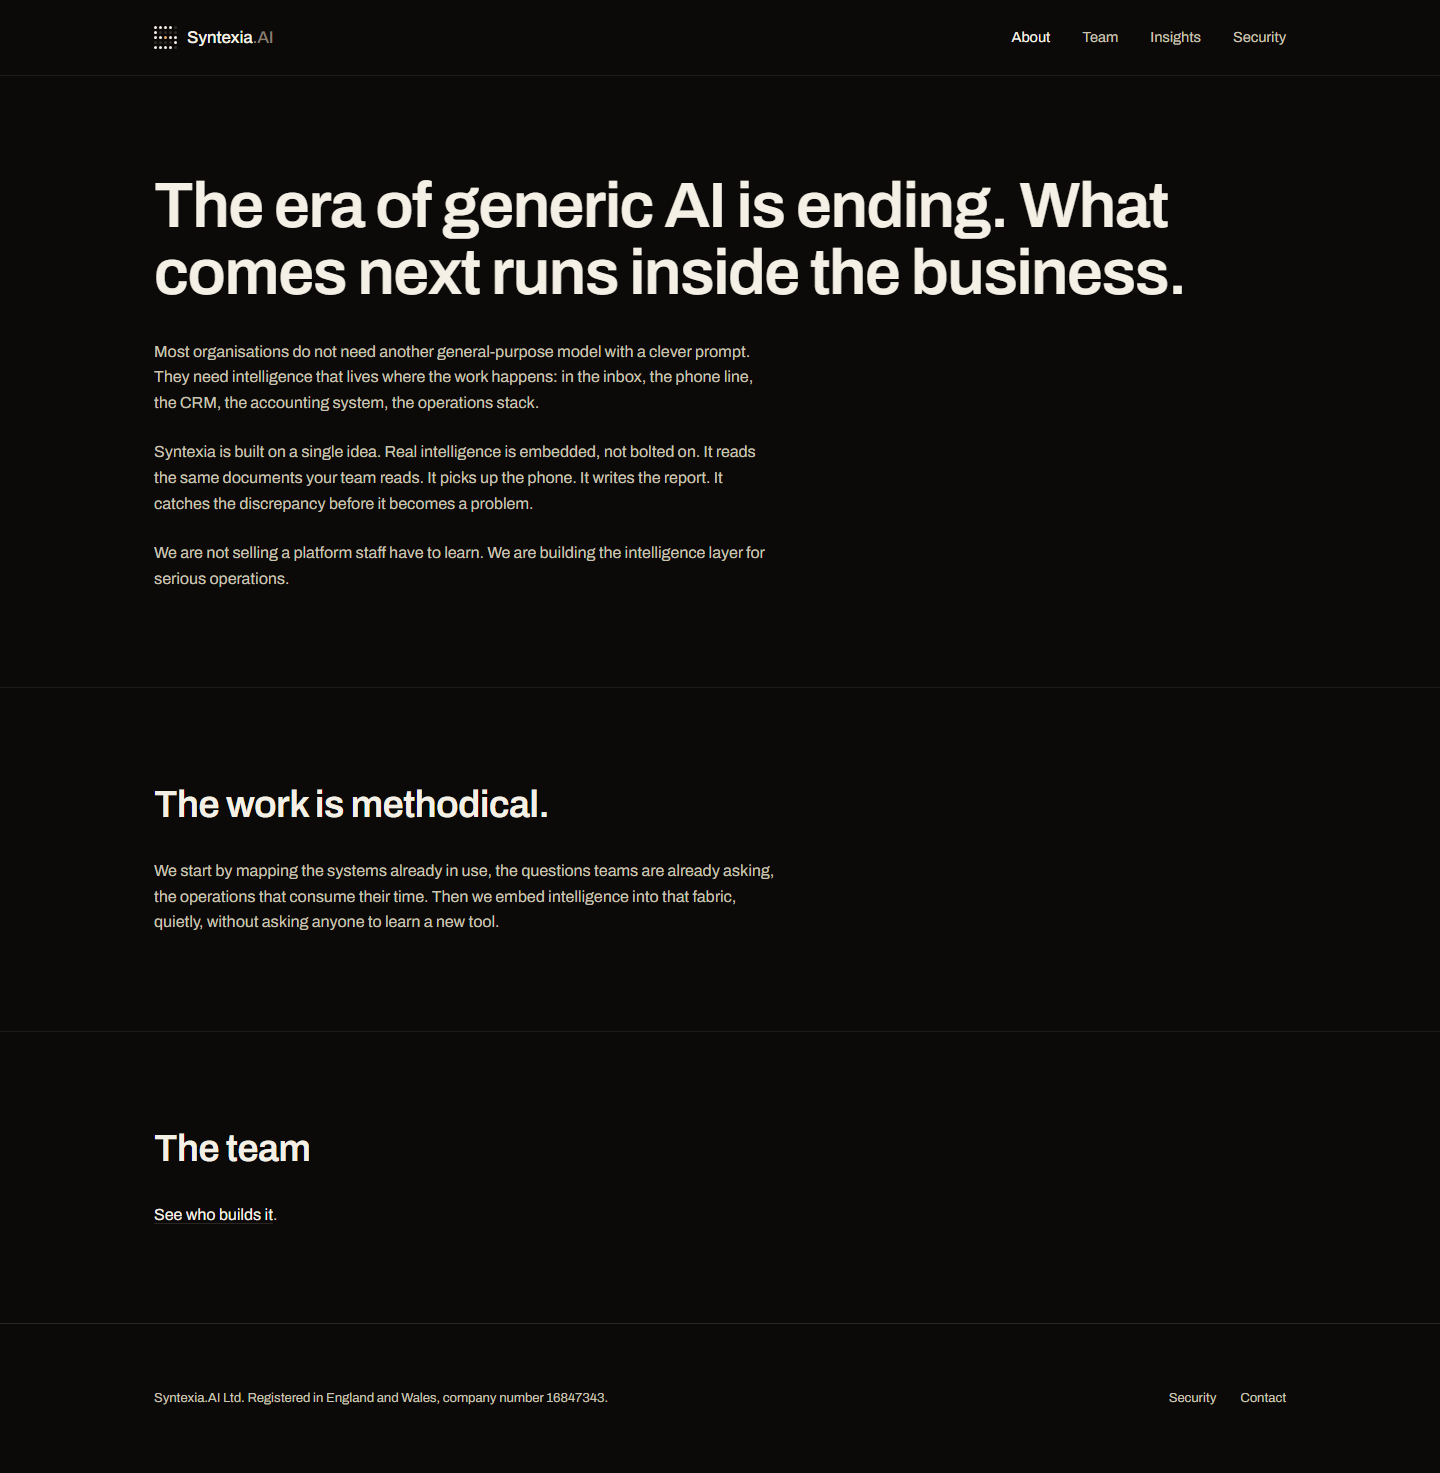
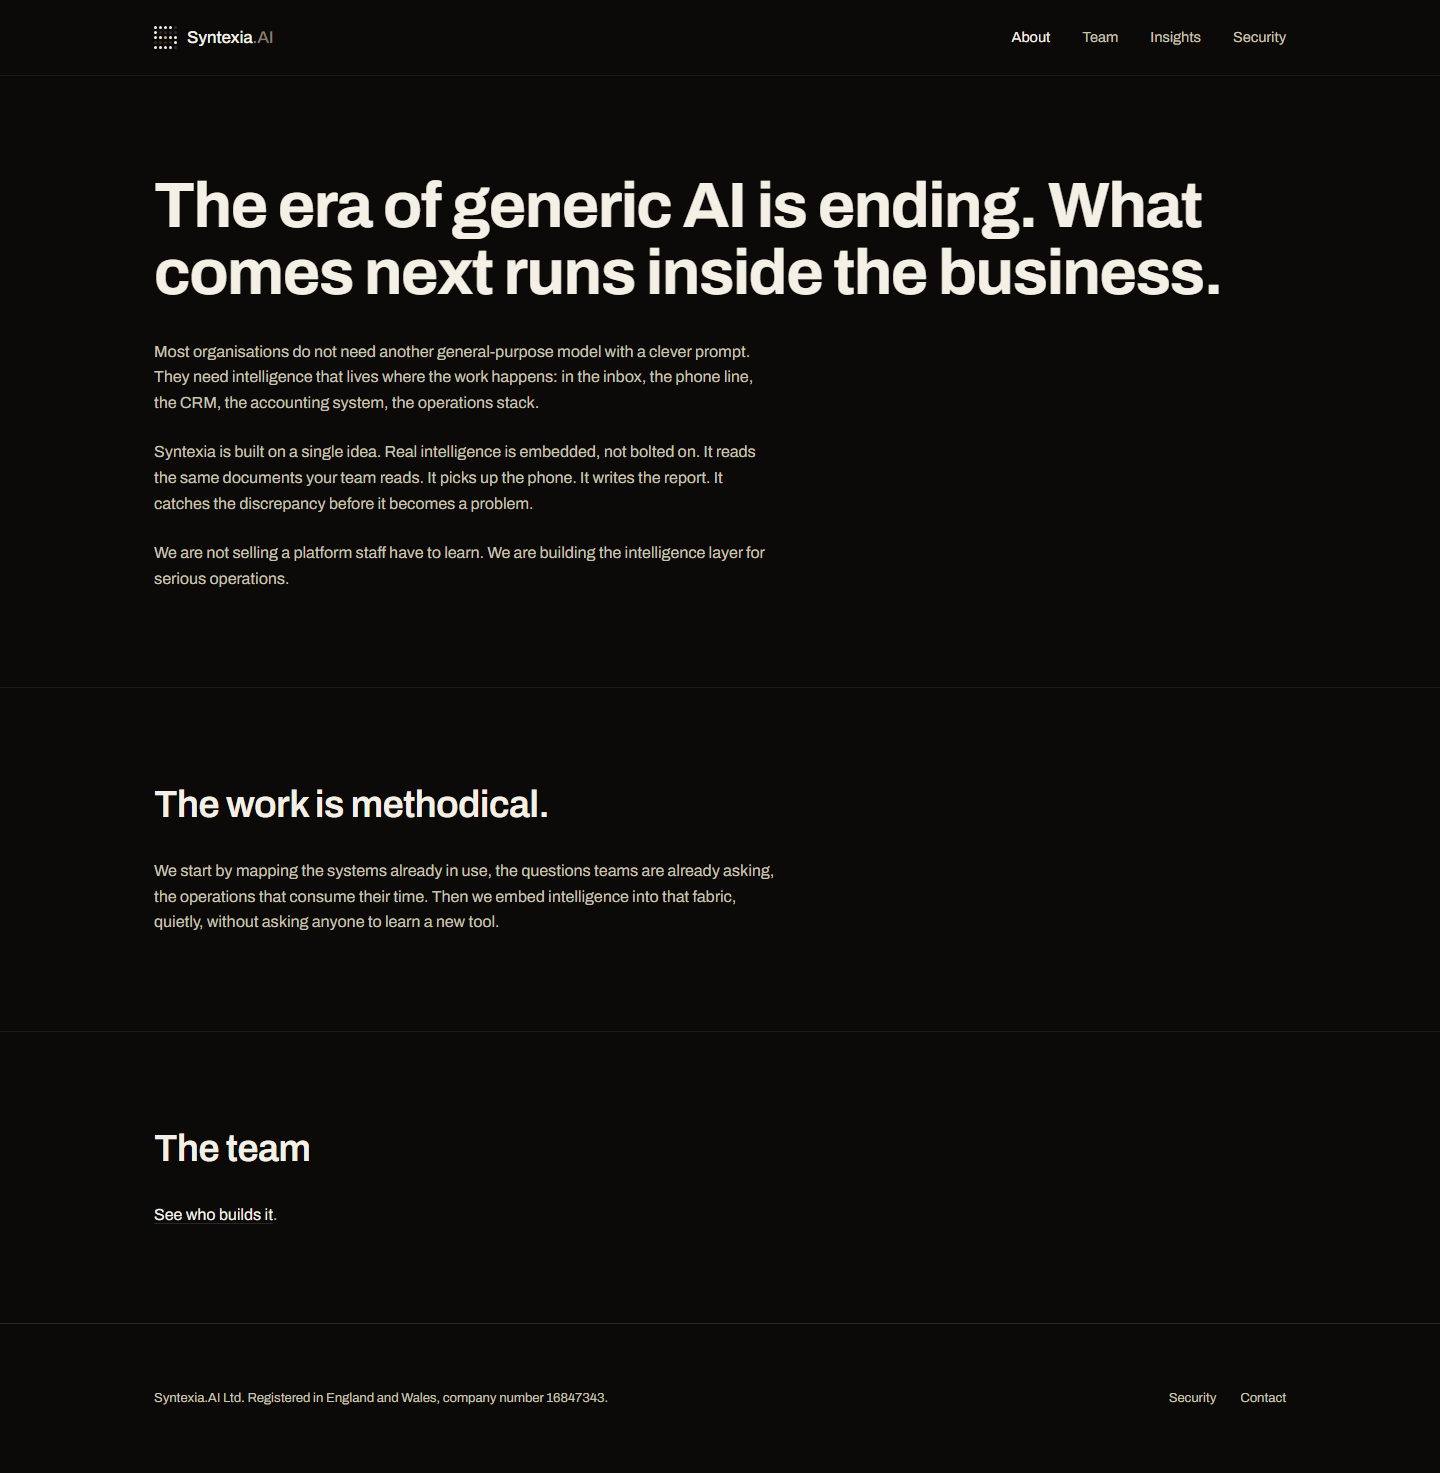
feat: committed art direction, product interface and audit flow
The site was the only one in the panel without a single image, while we have
three platforms in production. Fixed with real material, not decorative
illustrations.

Two pieces added.

AppFrame: a reconstruction of the engagement tracking screen, in Portuguese
like the real interface, company names redacted, references fictional. It is
what the whole panel does (Rossum, Trullion, Numeric, Instabase) and what we
were missing. The difference: they show decorative mockups, we reconstruct
our real screen.

AuditFlow: the flow of a Portuguese firm as it is implemented, Aceitacao,
Planeamento, Execucao, Conclusao, with execution locked until acceptance and
the anti-money laundering check are concluded. No competitor in the audit
batch shows the work at this level.

Art direction committed along the three levers of report 03, measured on
Linear, Anthropic and Vercel:
- depth from alternating solid colour blocks and one-pixel rules, never from
  shadow. It is Anthropic's mechanism transposed to dark.
- hierarchy carried by weight: H1 at 700 instead of 600, weight added and
  preloaded, negative tracking kept.
- copper accent reserved for actions and for the single state that calls for
  a human decision. It appears in no background.

The WebGL mark goes from 340 to 400 px.

Gates: html-validate 0 errors, 14 contrast pairs with no failure, no em dash,
no inline script, 2.9 KB of JavaScript gzip, 602 words served without
JavaScript against 422 before.
[…]

Changed region(s): [[0.125, 0.1249, 0.8438, 0.2186]]

diff --git a/src/styles/tokens.css b/src/styles/tokens.css
@@ -36,6 +36,13 @@
   src: url('/fonts/archivo-600.woff2') format('woff2');
 }
 @font-face {
+  font-family: 'Archivo';
+  font-style: normal;
+  font-weight: 700;
+  font-display: swap;
+  src: url('/fonts/archivo-700.woff2') format('woff2');
+}
+@font-face {
   font-family: 'Courier Prime';
   font-style: normal;
   font-weight: 400;

diff --git a/src/styles/base.css b/src/styles/base.css
@@ -59,7 +59,7 @@ h1,
   font-size: var(--t-display);
   line-height: var(--lh-display);
   letter-spacing: var(--ls-display);
-  font-weight: 600;
+  font-weight: 700;
   color: var(--ink);
 }
 
